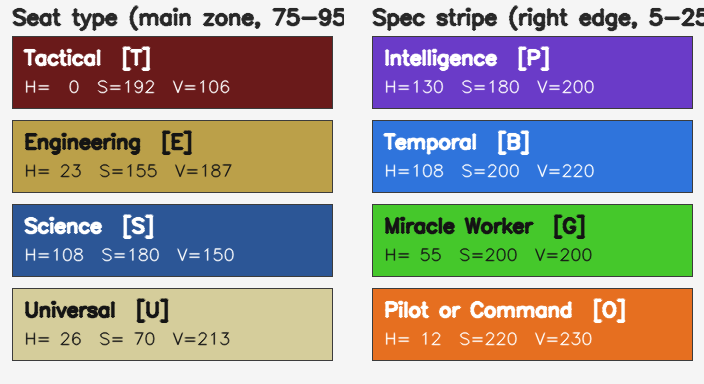
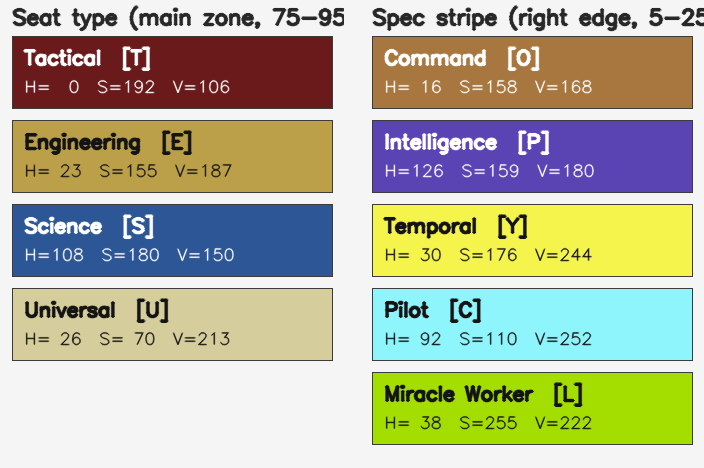
docs: correct BOFF spec-stripe palette (Pilot ≠ Temporal, Command ≠ Pilot)
User supplied ground-truth (col, row, spec) labels for 15 seats across
9 screens. tests/diag_boff_spec_stripe_gt.py samples each marker's
right-edge stripe and aggregates by spec. Findings:

  Command       H 16, S 158, V 168   (orange)
  Intelligence  H 126, S 159, V 180  (purple)
  Temporal      H 30, S 176, V 244   (bright gold — was mislabelled blue)
  Pilot         H 92, S 110, V 252   (light cyan — was mislabelled Temporal)
  Miracle Worker H 38, S 255, V 222  (lime)

Two corrections vs the prior table: the cyan stripe is Pilot (not
Temporal), and the orange stripe is exclusively Command (resolves the
prior Pilot/Command TBD). Temporal turns out to share its hue band with
Engineering's main zone, but is separable by higher V.

- tests/diag_boff_marker_swatch.py — updated centers, 5 stripes incl.
  Pilot and Command as separate cells.
- docs/images/boff_seat_marker_colors.png — regenerated.
- docs/sto_slots_rules.md — spec-stripe table now lists per-spec H/S/V
  medians and notes the Temporal/Eng-main overlap.
- tests/diag_boff_spec_stripe_gt.py — read-only verifier for future
  re-sampling.

diff --git a/tests/diag_boff_spec_stripe_gt.py b/tests/diag_boff_spec_stripe_gt.py
@@ -1,0 +1,180 @@
+"""
+Sample BOFF spec-stripe HSV at user-labelled (col, row, spec) seats.
+
+Goal: resolve the Pilot-vs-Command TBD in the spec-stripe palette
+(both currently catalogued as "orange, H 8-18"). User supplied
+ground-truth (col, row, spec) labels for ~17 seats across 9 screens.
+For each labelled seat we walk the right edge of the marker bar and
+print the HSV distribution of the coloured pixels — then group by
+spec label to see whether Pilot and Command separate cleanly.
+"""
+import json
+import statistics as st
+import sys
+from pathlib import Path
+
+import cv2
+import numpy as np
+
+ROOT = Path('/home/raman/PycharmProjects/sets-warp')
+sys.path.insert(0, str(ROOT))
+
+ANN     = ROOT / 'warp' / 'training_data' / 'annotations.json'
+SCREENS = Path('/home/raman/STO_screens/screeny')
+VIRTUAL = frozenset({'__empty__', '__inactive__'})
+
+# (filename, col, row_idx_0based, spec)  — from user message 2026-04-26
+GT = [
+    ('Screenshot_2025-09-25_104040.png', 'L', 1, 'pilot'),
+    ('Screenshot_2025-09-08_194542.png', 'L', 2, 'command'),
+    ('Screenshot_2025-09-25_111530.png', 'L', 2, 'command'),
+    ('Screenshot_2026-03-05_181717.png', 'L', 0, 'temporal'),
+    ('Screenshot_2026-03-05_181717.png', 'L', 1, 'intel'),
+    ('20250719145458_1.jpg',              'L', 1, 'command'),
+    ('20250719145458_1.jpg',              'R', 1, 'pilot'),
+    ('FaW_seating.jpg',                   'L', 1, 'command'),
+    ('FaW_seating.jpg',                   'R', 1, 'pilot'),
+    ('Screenshot_2026-02-06_024815.png',  'R', 1, 'mw'),
+    ('Screenshot_2026-02-06_024815.png',  'L', 2, 'intel'),
+    ('Stations.png',                      'L', 0, 'pilot'),
+    ('Stations.png',                      'L', 1, 'command'),
+    ('Tessa_Info_3.jpg',                  'L', 0, 'temporal'),
+    ('Tessa_Info_3.jpg',                  'L', 2, 'temporal'),
+]
+
+
+def find_image(fname):
+    for p in SCREENS.rglob(fname):
+        if p.is_file():
+            return p
+    return None
+
+
+def group_seats(boffs):
+    cxs = sorted(b[0] + b[2] / 2 for b in boffs)
+    if len(cxs) < 2:
+        return []
+    gaps = [(cxs[i + 1] - cxs[i], i) for i in range(len(cxs) - 1)]
+    _, gi = max(gaps)
+    split_x = (cxs[gi] + cxs[gi + 1]) / 2
+    icon_h = st.median(b[3] for b in boffs)
+
+    by_col = {'L': [], 'R': []}
+    for b in boffs:
+        col = 'L' if (b[0] + b[2] / 2) < split_x else 'R'
+        by_col[col].append(b)
+
+    seats = []
+    for col, items in by_col.items():
+        items.sort(key=lambda b: b[1])
+        if not items:
+            continue
+        rows = [[items[0]]]
+        for b in items[1:]:
+            if abs((b[1] + b[3] / 2) - (rows[-1][0][1] + rows[-1][0][3] / 2)) < icon_h * 0.6:
+                rows[-1].append(b)
+            else:
+                rows.append([b])
+        for r_idx, row in enumerate(rows):
+            row.sort(key=lambda b: b[0])
+            yc = st.median(b[1] + b[3] / 2 for b in row)
+            seats.append((col, r_idx, row[0][0], yc))
+    return seats
+
+
+def sample_stripe(img, x_left, yc, icon_w, icon_h):
+    """Sample the rightmost ~25% of the marker bar.
+
+    Marker spans x in [x_left - 0.9*icon_w, x_left - 0.05*icon_w], so the
+    right-edge stripe is the last 25% of that range.
+    """
+    hsv = cv2.cvtColor(img, cv2.COLOR_BGR2HSV)
+    bar_x0 = x_left - int(round(icon_w * 0.9))
+    bar_x1 = x_left - int(round(icon_w * 0.05))
+    bar_w  = bar_x1 - bar_x0
+    sx0 = bar_x1 - int(round(bar_w * 0.25))
+    sx1 = bar_x1
+    sy0 = int(round(yc + icon_h * 0.7))
+    sy1 = int(round(yc + icon_h * 1.3))
+    h, w = img.shape[:2]
+    sx0, sx1 = max(0, sx0), min(w, sx1)
+    sy0, sy1 = max(0, sy0), min(h, sy1)
+    crop = hsv[sy0:sy1, sx0:sx1]
+    if crop.size == 0:
+        return None
+    H = crop[:, :, 0].flatten()
+    S = crop[:, :, 1].flatten()
+    V = crop[:, :, 2].flatten()
+    m = (S > 60) & (V > 70)
+    if m.sum() < 5:
+        return None
+    return {
+        'h_med': int(np.median(H[m])),
+        's_med': int(np.median(S[m])),
+        'v_med': int(np.median(V[m])),
+        'h_lo':  int(np.percentile(H[m], 10)),
+        'h_hi':  int(np.percentile(H[m], 90)),
+        'n':     int(m.sum()),
+        'box':   (sx0, sy0, sx1, sy1),
+    }
+
+
+def main():
+    ann = json.loads(ANN.read_text(encoding='utf-8'))
+    by_spec = {}
+    print(f'{"file":<42s} {"col":<3s} {"row":<3s} {"spec":<8s} '
+          f'{"Hmed":>4s} {"H10-H90":>9s} {"Smed":>5s} {"Vmed":>5s}  n')
+    print('-' * 100)
+
+    for fname, col, row, spec in GT:
+        if fname not in ann:
+            print(f'{fname:<42s} -- not in annotations')
+            continue
+        boffs = [a['bbox'] for a in ann[fname]
+                 if a.get('state') == 'confirmed'
+                 and a.get('slot', '').startswith('Boff ')
+                 and a.get('name') not in VIRTUAL
+                 and a.get('bbox')]
+        if not boffs:
+            print(f'{fname:<42s} -- no GT BOFFs')
+            continue
+        path = find_image(fname)
+        if path is None:
+            print(f'{fname:<42s} -- not on disk')
+            continue
+        img = cv2.imread(str(path))
+        if img is None:
+            print(f'{fname:<42s} -- imread failed')
+            continue
+        seats  = group_seats(boffs)
+        icon_h = int(round(st.median(b[3] for b in boffs)))
+        icon_w = int(round(st.median(b[2] for b in boffs)))
+        match = next((s for s in seats if s[0] == col and s[1] == row), None)
+        if match is None:
+            print(f'{fname:<42s} {col} r{row}  -- seat not found '
+                  f'(have {[(c, r) for c, r, _, _ in seats]})')
+            continue
+        _, _, x_left, yc = match
+        stat = sample_stripe(img, x_left, yc, icon_w, icon_h)
+        if stat is None:
+            print(f'{fname:<42s} {col:<3s} {row:<3d} {spec:<8s} -- no coloured pixels')
+            continue
+        print(f'{fname:<42s} {col:<3s} {row:<3d} {spec:<8s} '
+              f'{stat["h_med"]:>4d} {stat["h_lo"]:>3d}-{stat["h_hi"]:<3d}  '
+              f'{stat["s_med"]:>5d} {stat["v_med"]:>5d}  {stat["n"]}')
+        by_spec.setdefault(spec, []).append(stat)
+
+    print()
+    print('=== summary by spec ===')
+    for spec, stats in sorted(by_spec.items()):
+        hs = [s['h_med'] for s in stats]
+        ss = [s['s_med'] for s in stats]
+        vs = [s['v_med'] for s in stats]
+        print(f'  {spec:<10s} n={len(stats):2d}  '
+              f'H med={int(st.median(hs)):>3d} (range {min(hs)}-{max(hs)})  '
+              f'S med={int(st.median(ss)):>3d}  '
+              f'V med={int(st.median(vs)):>3d}')
+
+
+if __name__ == '__main__':
+    main()

diff --git a/tests/diag_boff_marker_swatch.py b/tests/diag_boff_marker_swatch.py
@@ -36,11 +36,13 @@ SEAT_TYPES = [
 ]
 
 # Spec stripes (narrow ~5-8 px stripe on the RIGHT edge of the marker).
+# HSV centers verified from 15 user-labelled GT seats (2026-04-26).
 SPEC_STRIPES = [
-    ('Intelligence',     130, 180, 200, 'P'),  # purple
-    ('Temporal',         108, 200, 220, 'B'),  # blue
-    ('Miracle Worker',   55,  200, 200, 'G'),  # green / lime
-    ('Pilot or Command', 12,  220, 230, 'O'),  # orange
+    ('Command',        16,  158, 168, 'O'),  # orange
+    ('Intelligence',   126, 159, 180, 'P'),  # purple
+    ('Temporal',       30,  176, 244, 'Y'),  # bright gold
+    ('Pilot',          92,  110, 252, 'C'),  # light cyan
+    ('Miracle Worker', 38,  255, 222, 'L'),  # lime / yellow-green
 ]
 
 

diff --git a/docs/sto_slots_rules.md b/docs/sto_slots_rules.md
@@ -126,16 +126,23 @@ brighter (V ≈ 213 vs 187). Verified on `FaW_seating`,
 
 #### Spec stripe (right edge)
 
-| Stripe colour | Specialization        | Code |
-|---------------|-----------------------|------|
-| Purple, H 118–145    | Intelligence   | P    |
-| Blue,   H 92–118     | Temporal       | B    |
-| Green / lime, H 36–72 | Miracle Worker | G / L |
-| Orange, H 8–18       | Pilot or Command (TBD) | O |
-| (none)        | no specialization      | —    |
+Verified against 15 user-labelled ground-truth seats across 9 screens
+(2026-04-26):
 
-Pilot and Command both share the orange hue; they are disambiguated by
-context (ship class profile), not colour alone.
+| Stripe colour | H median | S median | V median | Specialization | Code |
+|---------------|----------|----------|----------|----------------|------|
+| Orange        | 16       | 158      | 168      | Command        | O    |
+| Purple        | 126      | 159      | 180      | Intelligence   | P    |
+| Bright gold   | 30       | 176      | 244      | Temporal       | Y    |
+| Light cyan    | 92       | 110      | 252      | Pilot          | C    |
+| Lime / yellow-green | 38 | 255      | 222      | Miracle Worker | L    |
+| (none)        | —        | —        | —        | no specialization | — |
+
+Pilot and Command are **distinct colours**, not the previously-assumed
+shared orange. The Temporal stripe shares its hue band with Engineering's
+main zone (~H 30) but is brighter (V ≈ 244 vs 187) and more saturated
+than the seat-type colour, which keeps the two zones separable on
+Engineering–Temporal seats.
 
 The reference image above (`docs/images/boff_seat_marker_colors.png`) is
 generated by `tests/diag_boff_marker_swatch.py` from the same HSV
